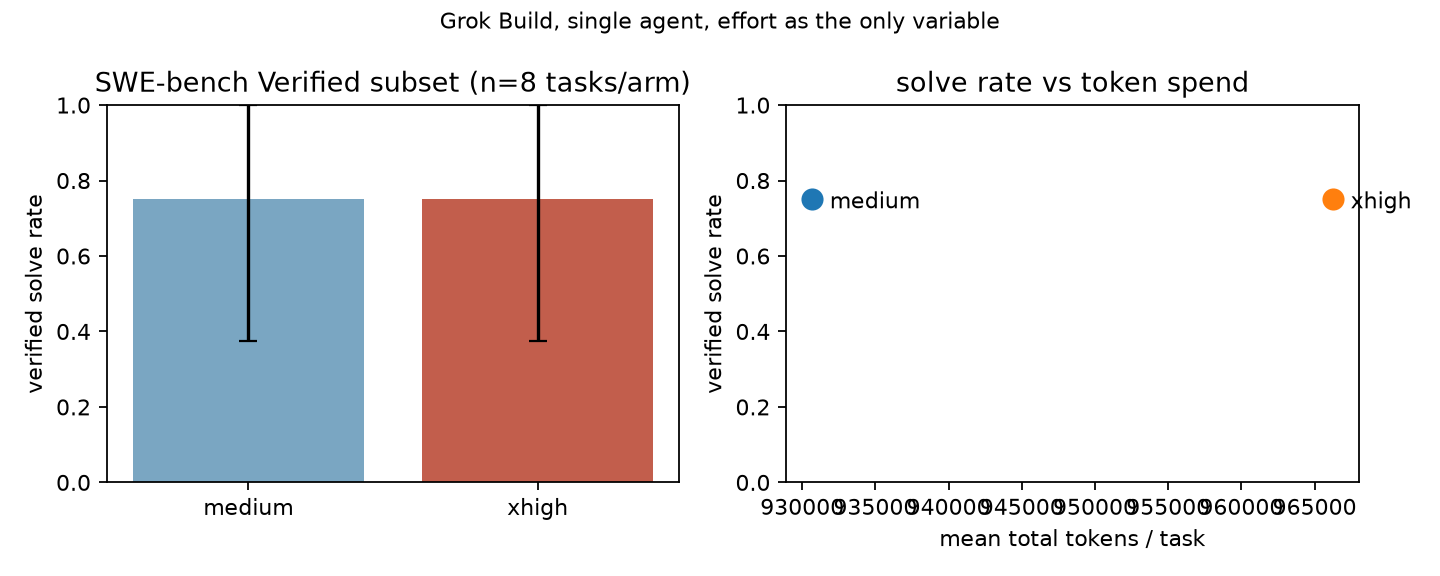
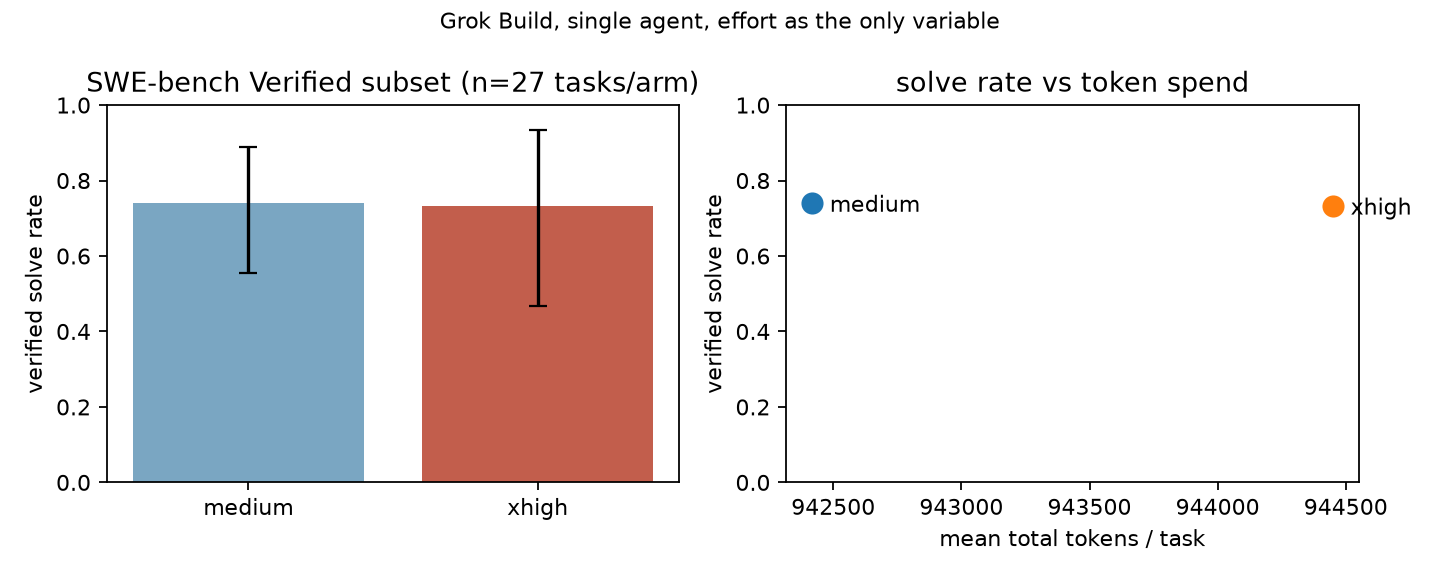
README redesign: headline-first with embedded figures, dial chart, compressed dial section, repo map; drop stale v1 figure

diff --git a/plots/dial.py b/plots/dial.py
@@ -1,0 +1,77 @@
+"""Result 1 figure: the --effort dial does not move realized reasoning.
+
+Left: probe measurements (same prompt, requested effort swept; values recorded
+in docs/dial-finding.md, 2026-08-26). Right: per-task reasoning on the 8-task
+L1 suite under the two requested efforts — task identity moves reasoning ~12x,
+the dial ~1x. Output: plots/dial.png
+"""
+
+import json
+from collections import defaultdict
+from pathlib import Path
+
+import matplotlib
+
+matplotlib.use("Agg")
+import matplotlib.pyplot as plt
+
+ROOT = Path(__file__).resolve().parent.parent
+
+# Probe data from docs/dial-finding.md (same combinatorics prompt per call)
+PROBES = {
+    "grok-build-0.1": {"none": [466, 291], "medium": [446, 685], "xhigh": [441, 797]},
+    "grok-4.20-0309-reasoning": {"low": [468], "xhigh": [250]},
+    "grok-4.6": {"none": [504], "xhigh": [460]},
+}
+LEVELS = ["none", "low", "medium", "xhigh"]
+
+
+def main():
+    rows = [json.loads(l) for l in open(ROOT / "results" / "runs.jsonl") if l.strip()]
+    per_task = defaultdict(dict)
+    for r in rows:
+        if (r.get("layer") == "L1" and r["phase"] == "fork_source" and r["status"] == "ok"
+                and r.get("model") == "grok-build-0.1" and r["rep"] == 1
+                and r["effort"] in ("medium", "xhigh")):
+            per_task[r["task_id"]][r["effort"]] = r["usage"].get("reasoning_tokens") or 0
+
+    fig, (ax1, ax2) = plt.subplots(1, 2, figsize=(10, 4))
+
+    colors = {"grok-build-0.1": "#c25e4c", "grok-4.20-0309-reasoning": "#8e7cc3",
+              "grok-4.6": "#7aa6c2"}
+    for model, by_level in PROBES.items():
+        xs, ys = [], []
+        for i, lvl in enumerate(LEVELS):
+            for v in by_level.get(lvl, []):
+                xs.append(i)
+                ys.append(v)
+        ax1.plot(xs, ys, "o", color=colors[model], label=model, alpha=0.85, markersize=7)
+    ax1.set_xticks(range(len(LEVELS)), LEVELS)
+    ax1.set_xlabel("requested --effort")
+    ax1.set_ylabel("realized reasoning tokens")
+    ax1.set_title("probe: same prompt, effort swept — flat", fontsize=10)
+    ax1.set_ylim(0, 900)
+    ax1.legend(fontsize=7)
+
+    tasks = sorted(t for t, d in per_task.items() if "medium" in d and "xhigh" in d)
+    for i, t in enumerate(tasks):
+        m, x = per_task[t]["medium"], per_task[t]["xhigh"]
+        ax2.plot([i, i], [m, x], color="#bbb", lw=1, zorder=1)
+        ax2.scatter([i], [m], color="#666", zorder=2, label="medium" if i == 0 else None)
+        ax2.scatter([i], [x], color="#c25e4c", zorder=2, label="xhigh" if i == 0 else None)
+    ax2.set_yscale("log")
+    ax2.set_xticks(range(len(tasks)), [t.split("__")[-1] for t in tasks],
+                   rotation=45, ha="right", fontsize=7)
+    ax2.set_ylabel("reasoning tokens (log)")
+    ax2.set_title("L1 tasks: task moves reasoning ~12x, the dial ~1x", fontsize=10)
+    ax2.legend(fontsize=7)
+
+    fig.suptitle("--effort is inert on xAI-served models (Grok Build 1.0.5)", fontsize=11)
+    fig.tight_layout()
+    out = ROOT / "plots" / "dial.png"
+    fig.savefig(out, dpi=160)
+    print(f"wrote {out}")
+
+
+if __name__ == "__main__":
+    main()

diff --git a/README.md b/README.md
@@ -1,88 +1,124 @@
-# Marginal Compute in a Production Agent Harness: Forked-Trajectory Measurements in Grok Build
+# When should a coding agent escalate to a bigger model?
 
-Modern agent harnesses expose increasingly large amounts of inference-time compute, but current
-allocation is primarily model-controlled or statically configured. This project measures, inside
-[Grok Build](https://github.com/xai-org/grok-build) (xAI's open-source coding-agent harness),
-what buying more compute at a *specific point in an agent trajectory* actually purchases — using
-a **paired counterfactual branch** design made possible by the harness's native session forking.
+**Forked-trajectory measurements of marginal compute in [Grok Build](https://github.com/xai-org/grok-build), on SWE-bench Verified.**
 
-It produced two results:
+Agent harnesses expose lots of test-time compute, but *when* to spend it is mostly guesswork.
+This repo measures one allocation decision directly: fork a live coding-agent trajectory at a
+matched checkpoint — identical filesystem, identical conversation, identical remaining budget —
+and let one branch **continue** on `grok-build-0.1` while the other **escalates** to `grok-4.6`.
+Grade both against SWE-bench's hidden tests. The difference is what escalation bought, *at that
+state*.
 
-## Result 1 — The harness's compute dial is silently disconnected
+- **Escalation raised P(solve) by ≈ +0.4 — and never lowered it at any checkpoint.**
+  Δsolve = +0.38 [0.00, +0.75] at failure-signal states, +0.39 [+0.11, +0.67] at quiet states
+  (13 checkpoints × 2 reps/arm, 50 graded branches).
+- **It rescues trajectories the base model can never finish.** django-11400 is 0/6 for
+  grok-build-0.1 from scratch; escalate branches solved it 2/2 even from a deep failure state.
+- **At quiet states, escalating was net *cheaper*:** mean token premium **−86k** — grok-4.6
+  finishes and stops while the base model burns its whole budget flailing.
+- **Rescuing a failing trajectory has a price: ≈ 347k total tokens per marginal solve** — and a
+  too-late boundary (with 8 turns of budget left, even grok-4.6 couldn't save it).
+- **Bonus finding:** the harness's own compute dial (`--effort`) is **silently inert for every
+  xAI-served model** — caught by an A/A control, receipts down to the source line in
+  **[docs/dial-finding.md](docs/dial-finding.md)**.
 
-The A/A control run for the original design (reasoning effort medium vs xhigh) caught that
-Grok Build 1.0.5's documented `--effort` flag is inert for **every** xAI-served model: the
-server-delivered catalog marks all models `supports_reasoning_effort: false`, the CLI drops the
-value with a tracing-only warning invisible in headless mode, `--effort banana` is accepted, and
-realized reasoning tokens do not respond to the flag (`none` ≈ `xhigh`). Full receipts — catalog
-dump, source-level root cause in `xai-grok-shell`, probe tables, and the resulting 8-task /
-17-checkpoint A/A dataset (identical 75%/75% resolution matrices; median reasoning ratio 0.96) —
-in **[docs/dial-finding.md](docs/dial-finding.md)**. The A/A forks double as the experiment's
-measured noise floor.
+![Marginal value of escalation by state](plots/marginal.png)
+*Paired branches from identical frozen states: escalating to grok-4.6 raised P(solve) at both
+signal and quiet checkpoints and never lowered it. Bootstrap CIs over checkpoints.*
 
-This is Prime Agent's thesis (arXiv 2608.23552) one level down: the capability surface
-advertises a knob; the wire discards it.
+## How the measurement works
 
-## Result 2 — The marginal value of model escalation, by trajectory state
+Every trajectory becomes its own control: run the base model in 8-turn segments, freeze the
+complete state at each boundary — the **filesystem** via `docker commit` and the **conversation**
+via a checkpoint session forked at that moment — then branch the same frozen state down two
+futures and grade both.
 
-With effort dead, the real escalation lever is the model. Design:
+1. **Sources.** Each SWE-bench Verified task runs on `grok-build-0.1` (single agent, subagents
+   disabled, 40-turn budget) in 8-turn segments, snapshotting at every boundary.
+2. **Checkpoints.** A mechanical rule over the session event stream labels each boundary a
+   **signal** state (latest verification execution — test run or repro script — failed, or
+   repeat-edits without a passing verification) or a **quiet** state, then picks up to 2 signal
+   + 1 quiet per source with seeded randomness, frozen before any outcome is seen.
+3. **Branches.** From each checkpoint's frozen state: **continue** (`grok-build-0.1`) vs
+   **escalate** (`grok-4.6`) — same transcript-up-to-k, same filesystem-at-k, same remaining
+   budget, same prompt; 2 repetitions per arm, execution order interleaved.
+4. **Grading.** Every branch is graded by the SWE-bench harness in fresh containers; hidden
+   tests are injected only at grade time. Estimand:
+   **Δ(state) = P(solve | state, escalate) − P(solve | state, continue)**.
 
-1. Run each SWE-bench Verified task on `grok-build-0.1` (single agent, no subagents, 40 turns)
-   in 8-turn segments, `docker commit`-ing the full container (repo + env) at every boundary.
-2. Select checkpoints by a pre-registered mechanical rule over the session event stream —
-   **signal** states (latest verification execution failed, or repeat-edits without a passing
-   verification) vs **quiet** states; seeded random choice among eligible candidates.
-3. **Checkpoint sessions are captured at segment time**: immediately after each snapshot, a
-   marker fork (`-r <sid> --fork-session -s <ckpt> --max-turns 1 --tools read_file`) freezes a
-   session whose transcript ends at that boundary plus one inert marker exchange (identical
-   across arms; mutating tools disabled during the marker; marker reply recorded per checkpoint). At each selected checkpoint, branches fork **that** frozen
-   session from the identical snapshot: **continue** on `grok-build-0.1` vs **escalate** to
-   `grok-4.6` — same transcript-up-to-k, same filesystem-at-k, same remaining budget, same
-   prompt; 2 repetitions per arm, execution order interleaved.
-4. Grade every branch with the SWE-bench harness (hidden tests injected at grade time in fresh
-   containers). Estimand: **Δ(state) = P(solve | state, escalate) − P(solve | state, continue)**,
-   with bootstrap CIs over checkpoints, split by state group, alongside the token/cost premium.
+> [!NOTE]
+> This is a paired counterfactual branch design with honest small-n reporting — not a
+> causal-inference or benchmark claim. Checkpoints nest within 8 source trajectories, so CIs
+> over checkpoints understate cluster correlation; the signal-vs-quiet *difference* is not
+> established (both ≈ +0.38); and "escalate mid-flight vs restart fresh on grok-4.6" is a
+> separate comparison this design does not measure.
 
-**Results** (13 checkpoints — 4 signal / 9 quiet — across 8 tasks, 2 reps/arm, 50 graded
-branches, all v2 design):
+## Results
 
-- **Escalation raised P(solve) by ≈ +0.4 and never lowered it at any checkpoint**:
-  Δsolve = **+0.38** [0.00, +0.75] at signal states (n=4) and **+0.39** [+0.11, +0.67] at quiet
-  states (n=9), bootstrap CIs over checkpoints.
-- **Mid-flight hand-off rescues trajectories the base model can never finish.** On
-  django-11400 (0/6 for grok-build-0.1 from scratch), escalate branches solved **2/2 from a
-  quiet state and 2/2 from a deep failure state** where continue went 0/2; pytest-6197
-  (also 0/6 from scratch) was rescued 2/2 from its mid-trajectory checkpoint. The exception:
-  its last checkpoint (8 turns of budget left) failed at both arms — escalating too late buys
-  nothing.
-- **The cost of escalation is two-sided.** At quiet states the mean token premium was
-  **−86k total tokens** — escalation *saved* tokens net, because grok-4.6 finishes and stops
-  while grok-build-0.1 burns its whole budget. At signal states the premium was +130k,
-  i.e. ≈ **347k total tokens per marginal verified solve** — the measured price of rescuing a
-  failing trajectory.
-- Task-level anchors: grok-build-0.1 74% @ $0.28/task (perfectly deterministic per task across
-  4-6 reps); grok-4.6 100% @ $0.51 (and *fewer* total tokens — 651k vs 944k — the premium is
-  price-per-token, not volume); per-task-best selection 100% @ $0.36 (−30% vs always-escalate).
+![One rescue, drawn](plots/trajectory_django__django-11400__seg4__e047d153.png)
+*One rescue: django-11400, forked at a deep failure state (turn 32). Both continue branches
+fail cheap; both escalate branches solve.*
 
-Caveats stated plainly: n is small; checkpoints nest within 8 source trajectories (up to 3 per
-trajectory), so CIs over checkpoints understate cluster correlation; signal-vs-quiet
-*difference* is not established (both ≈ +0.38); and "escalate mid-flight vs restart the task
-fresh on grok-4.6" is a separate comparison this design does not measure (grok-4.6 from scratch
-also solves these tasks — what the forks add is the state-conditioned, budget-matched
-measurement, including where escalation is too late).
+Task-level anchors (4–6 repetitions per task on the base model — with **zero within-task
+variance**: every task is 100% or 0% across all reps):
 
-See `plots/marginal.png` (Δ by state), `plots/trajectory_django__django-11400__seg4_*.png`
-(one rescue, drawn), and `plots/static_models.png` (task-level cost/solve + oracle gap).
+| arm | solve | $/task | total tok/task |
+|---|---|---|---|
+| all `grok-build-0.1` | 74% | $0.28 | 944k |
+| all `grok-4.6` | **100%** | $0.51 | **652k** |
+| per-task-best (oracle*) | 100% | **$0.36** | 921k |
 
-## Pinned configuration
+*Oracle selection conditions on observed outcomes — motivation, not a deployable policy.
+Note grok-4.6 uses **fewer** tokens than the base model (it finishes instead of hitting the
+turn cap); its premium is price-per-token, not volume.*
 
-| Component | Value |
+![Task-level cost/solve](plots/static_models.png)
+*The task-level frontier behind the fork experiment: the escalation decision is worth 30% of
+spend even before state-level allocation.*
+
+## The inert dial (the finding we didn't go looking for)
+
+The original design compared reasoning efforts. Its A/A control caught that Grok Build 1.0.5's
+documented `--effort` flag does nothing on any xAI-served model:
+
+- the server-delivered catalog marks **every** model `supports_reasoning_effort: false`, and the
+  CLI silently drops the flag (the warning goes to tracing, never headless stderr);
+- `--effort banana` is accepted without complaint;
+- realized reasoning does not respond: `none` ≈ `xhigh` on three models, and across the 8-task
+  suite the median per-task reasoning ratio between requested efforts is **0.96** — while task
+  identity moves reasoning **~12×**.
+
+![The dial is inert](plots/dial.png)
+*Left: same prompt, requested effort swept — flat. Right: task moves realized reasoning ~12×;
+the dial ~1×.*
+
+Full receipts — catalog dump, source-level root cause in `xai-grok-shell`, probe tables, and the
+A/A dataset — in **[docs/dial-finding.md](docs/dial-finding.md)**.
+
+## Design integrity: a flaw we caught and fixed
+
+The first fork design restored the filesystem to segment *k* but forked the parent session
+**after the run finished** — and Grok Build sessions are append-only, so those branches
+inherited the parent's *future*: a transcript describing all 40 turns, including (on solved
+tasks) the working solution. Branch solve rates were answer-key-inflated, and one "divergence"
+was a branch that read the transcript, declared the work done, and submitted nothing — onto a
+filesystem where the fix did not exist. We caught this by auditing transcript sizes (a
+"segment-3" child carried more history than its parent's full run), quarantined every v1 branch
+(`results/forks_v1_leaky.jsonl`, plus `design: v1_leaky` tags in `results/runs.jsonl`), and
+rebuilt around checkpoint sessions frozen at segment time. All clean records carry
+`"design": "v2_marker_fork"`. Task-level results and the dial finding involve no forking and
+were never affected.
+
+## Repo map
+
+| path | what |
 |---|---|
-| Grok Build | 1.0.5 (`bin/SHA256SUMS`) |
-| Models | `grok-build-0.1` (base) vs `grok-4.6` (escalation target); effort constant (and inert, see Result 1) |
-| Tasks | SWE-bench Verified subset, difficulty-stratified, frozen pre-run (`tasks/manifest.json`) |
-| Grading | `swebench==5.0.2`, fresh run-id per batch |
-| Host | Apple Silicon; amd64 eval images under Rosetta (wall time emulated; tokens/$ unaffected) |
+| `results/runs.jsonl` | every agent invocation: usage, cost, stop reason, patch, verdict |
+| `results/forks.jsonl` | checkpoints: state features, snapshot image, branch run ids |
+| `runner/` | container lifecycle, segmented sources, checkpoint forking, grading |
+| `plots/` | all figures + the scripts that regenerate them from the raw records |
+| `docs/dial-finding.md` | the inert-dial dossier |
+| `tasks/manifest.json` | the frozen, difficulty-stratified SWE-bench Verified subset |
 
 ## Reproduce
 
@@ -90,49 +126,45 @@ See `plots/marginal.png` (Δ by state), `plots/trajectory_django__django-11400__
 uv venv --python 3.12 .venv && uv pip install --python .venv/bin/python swebench==5.0.2 datasets matplotlib
 echo 'XAI_API_KEY=...' > .env
 .venv/bin/python runner/select_subset.py                                  # manifest + prompts
-.venv/bin/python runner/sweep.py --model grok-build-0.1 --efforts medium  # segmented sources + snapshots
+.venv/bin/python runner/sweep.py --model grok-build-0.1 --efforts medium  # sources + snapshots ("L1" = task-level layer)
 .venv/bin/python runner/grade.py --layer L1
 .venv/bin/python runner/forker.py --arms "continue=grok-build-0.1,escalate=grok-4.6" --reps 2
 .venv/bin/python runner/grade.py --phase fork_branch
-.venv/bin/python plots/static.py && .venv/bin/python plots/marginal.py
+.venv/bin/python plots/static_models.py && .venv/bin/python plots/marginal.py
 ```
 
-Raw records ship in-repo: `results/runs.jsonl` (every headless invocation: usage, cost, stop
-reason, patch, verdict), `results/forks.jsonl` (checkpoints: state features, snapshot image,
-branch run ids). Session event streams under `results/sessions/` locally.
+> [!NOTE]
+> SWE-bench eval images are amd64-only. On Apple Silicon everything runs under Rosetta
+> emulation (wall-clock is inflated; tokens and dollars are unaffected). Total cost of the full
+> experiment as shipped: ≈ $65 of API spend.
 
-## Design integrity: a flaw we caught and fixed
-
-The first version of the fork design restored the filesystem to segment *k* but forked the
-parent session **after the run finished** — and Grok Build sessions are append-only, so those
-branches inherited the parent's *future*: a transcript describing all 40 turns, including (on
-solved tasks) the working solution. Branch solve rates were answer-key-inflated and one
-"divergence" was a branch that read the transcript, declared the work done, and submitted
-nothing — onto a filesystem where the fix did not exist. We caught this by auditing transcript
-sizes (a "segment-3" child carried more history than its parent's full run), quarantined every
-v1 branch (`results/forks_v1_leaky.jsonl`), and rebuilt the design around checkpoint sessions
-captured at segment time (the marker fork above). All v2 records carry
-`"design": "v2_marker_fork"`. Task-level results and the dial finding involve no forking and
-were never affected.
+| pinned | value |
+|---|---|
+| Grok Build | 1.0.5 (`bin/SHA256SUMS`) |
+| Models | `grok-build-0.1` (base) vs `grok-4.6` (escalation target); effort constant (and inert — see above) |
+| Grading | `swebench==5.0.2`, fresh run-id per batch |
 
 ## Validity notes
 
-- **One manipulated variable.** Branch arms differ only in model id; prompts, budgets, snapshots,
-  transcripts identical; subagents disabled everywhere. Every run row records its full flag set
-  and model for post-hoc verification.
-- **Paired design, honest language.** This is a paired counterfactual branch experiment with
-  repetitions — not a causal-inference claim, not a benchmark claim. n is reported everywhere;
-  the A/A dataset provides the empirical noise floor.
+- **One manipulated variable.** Branch arms differ only in model id; prompts, budgets,
+  snapshots, transcripts identical; subagents disabled everywhere; every run row records its
+  full flag set for post-hoc verification.
 - **Grader integrity.** Hidden FAIL_TO_PASS tests exist only at grade time; the eval script
   re-checkouts touched test files; the runner flags any test-path edits in diffs.
 - **Failure hygiene.** API/transport failures are `status=error` — excluded, never scored.
-  Completions are validated (sessionId present); results cache dodged via fresh grade run-ids.
-- **Observed-vs-documented CLI behavior** is recorded where it diverges (max-turns stop reports
-  `cancelled`; the effort warning never reaches headless stderr).
+  Completions are validated (session id present); a mechanical classifier (regression-tested in
+  `runner/test_features.py`) derives all state features; nothing is hand-annotated.
+- **Observed-vs-documented CLI behavior** is recorded wherever it diverges (max-turns stops
+  report `cancelled`; the effort warning never reaches headless stderr).
 
 ## Future work
 
-The fork dataset is the natural training set for a learned value-of-computation policy
-(P(solve|state, action) per unit cost); a threshold escalation rule falls out of the marginal
+The fork dataset is the natural training set for a learned value-of-computation policy —
+P(solve | state, action) per unit cost; a threshold escalation rule falls out of the marginal
 plot first. Verifying wire-level behavior of reasoning parameters against the xAI API directly
-(outside the CLI) is the open item from Result 1.
+(outside the CLI) is the open item from the dial finding.
+
+Motivated by [Prime Agent](https://arxiv.org/abs/2608.23552) (Karten et al., 2026): harnesses
+are computation managers, and models struggle to operate the compute they expose. This repo
+measures that gap twice — once in a knob that turned out not to be connected, once in an
+allocation decision worth +0.4 solve probability.

diff --git a/docs/dial-finding.md b/docs/dial-finding.md
@@ -52,6 +52,10 @@ Same prompt (a small combinatorics puzzle), reasoning tokens from the headless `
 `--effort none` produces as much reasoning as `--effort xhigh`. Note the non-zero reasoning under
 `none` — the flag isn't scaling anything down either.
 
+![Requested effort vs realized reasoning](../plots/dial.png)
+*Left: the probe table plotted. Right: on the 8-task agentic suite, task identity moves realized
+reasoning ~12×; the requested effort ~1×.*
+
 **5. The agentic-scale consequence: an accidental A/A study.**
 Before discovering this, we ran a full paired comparison on 8 SWE-bench Verified tasks
 ("medium" vs "xhigh", 40-turn budgets, single agent, identical prompts). As expected for two
@@ -63,7 +67,8 @@ dial-inelastic.
 (A companion set of 17 mid-trajectory fork checkpoints also showed aggregate Δ = 0.00 between
 the two labels; those runs were additionally subject to a fork-design flaw we later found and
 fixed — see the repository README's design-integrity note — so we cite only the task-level A/A
-numbers here.)
+numbers here. The per-arm A/A table and figure regenerate via `plots/static.py` →
+`plots/static.png`.)
 
 ## What we cannot assert
 
